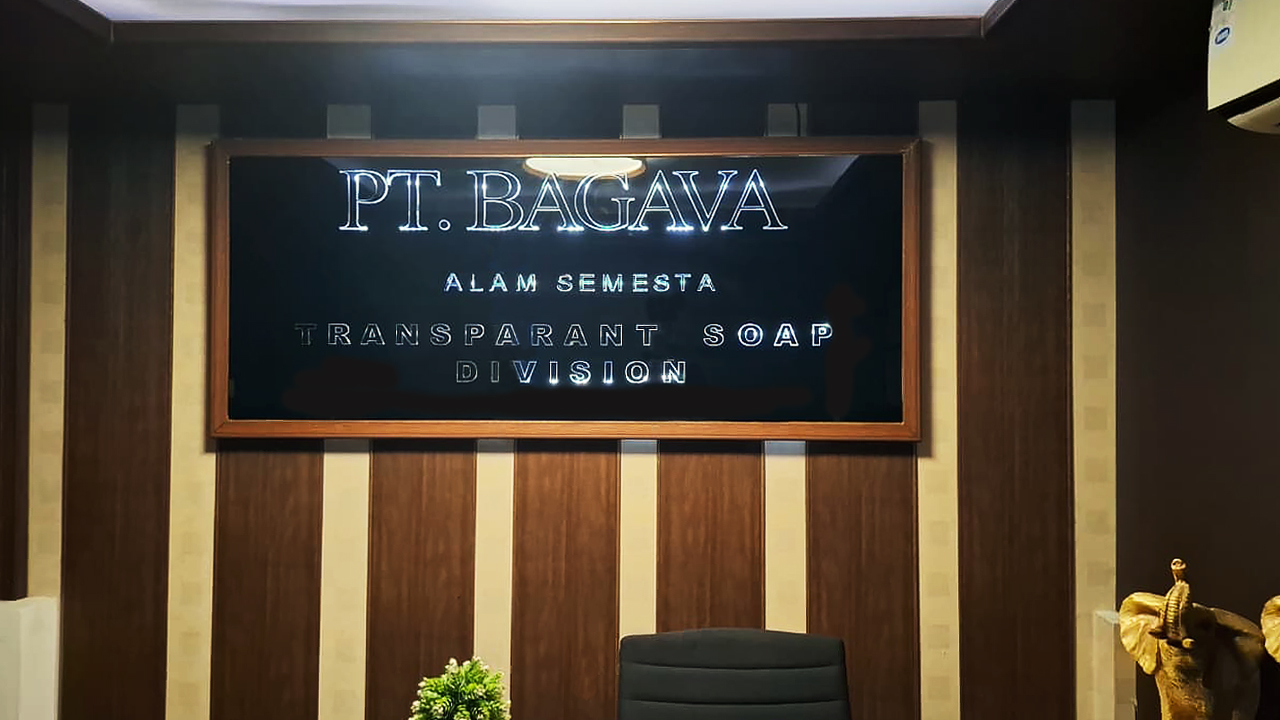
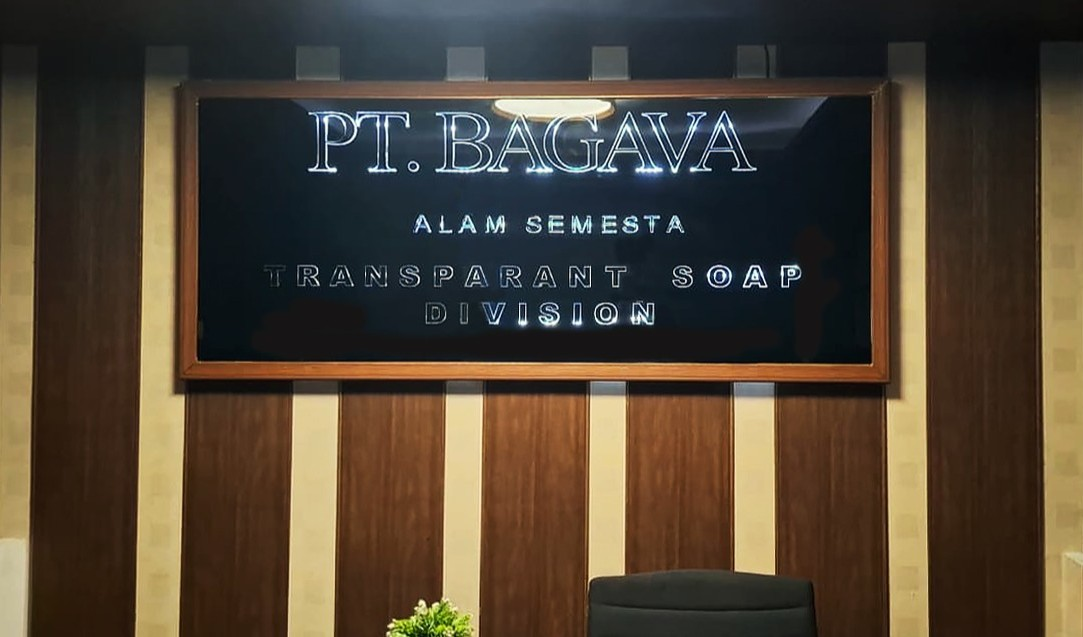
update font

diff --git a/src/pages/Beranda.module.css b/src/pages/Beranda.module.css
@@ -50,7 +50,7 @@
 }
 
 .heroTitle {
-  font-family: var(--font-body);
+  font-family: 'Fraunces', Georgia, serif;
   font-size: clamp(2.2rem, 5vw, 3.8rem);
   font-weight: 700;
   color: var(--color-white);
@@ -574,7 +574,9 @@
 
 @media (max-width: 480px) {
   /* Hero */
-  .heroTitle { font-size: clamp(1.75rem, 7vw, 2.5rem); }
+  .heroTitle { 
+    font-family: var(--font-heading);
+    font-size: clamp(1.75rem, 7vw, 2.5rem); }
   .heroCta {
     flex-direction: column;
     align-items: center;

diff --git a/src/pages/TentangKami.jsx b/src/pages/TentangKami.jsx
@@ -2,7 +2,7 @@ import { Helmet } from 'react-helmet-async';
 import { useTranslation } from 'react-i18next';
 import { FiCheckCircle, FiShield, FiZap, FiAward, FiDroplet } from 'react-icons/fi';
 import AnimatedSection, { AnimatedItem } from '../components/ui/AnimatedSection';
-import historyImg from '../assets/Foto/IMG_8997.JPG';
+import historyImg from '../assets/Foto/bagava.jpeg';
 import createQuality from '../assets/konten/create_quality_product.jpg';
 import distributeAll from '../assets/konten/distribute_to_all.jpg';
 import developNewest from '../assets/Foto/IMG_8990.JPG';